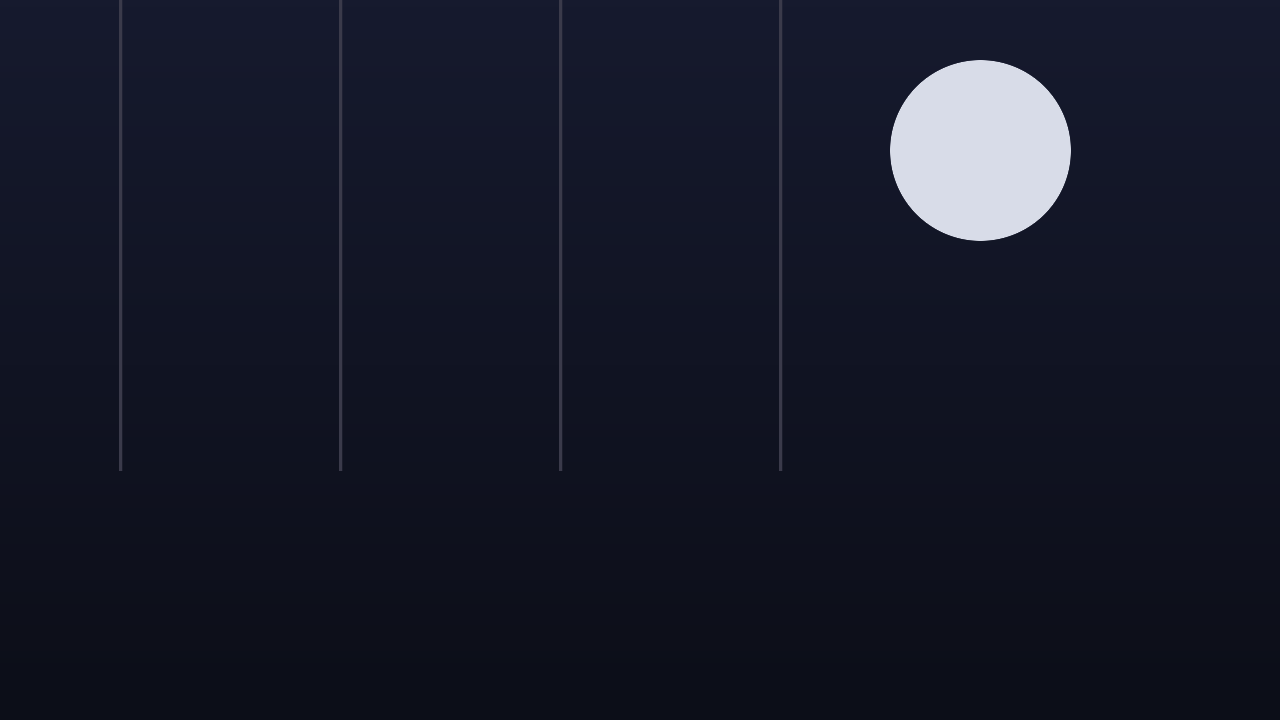
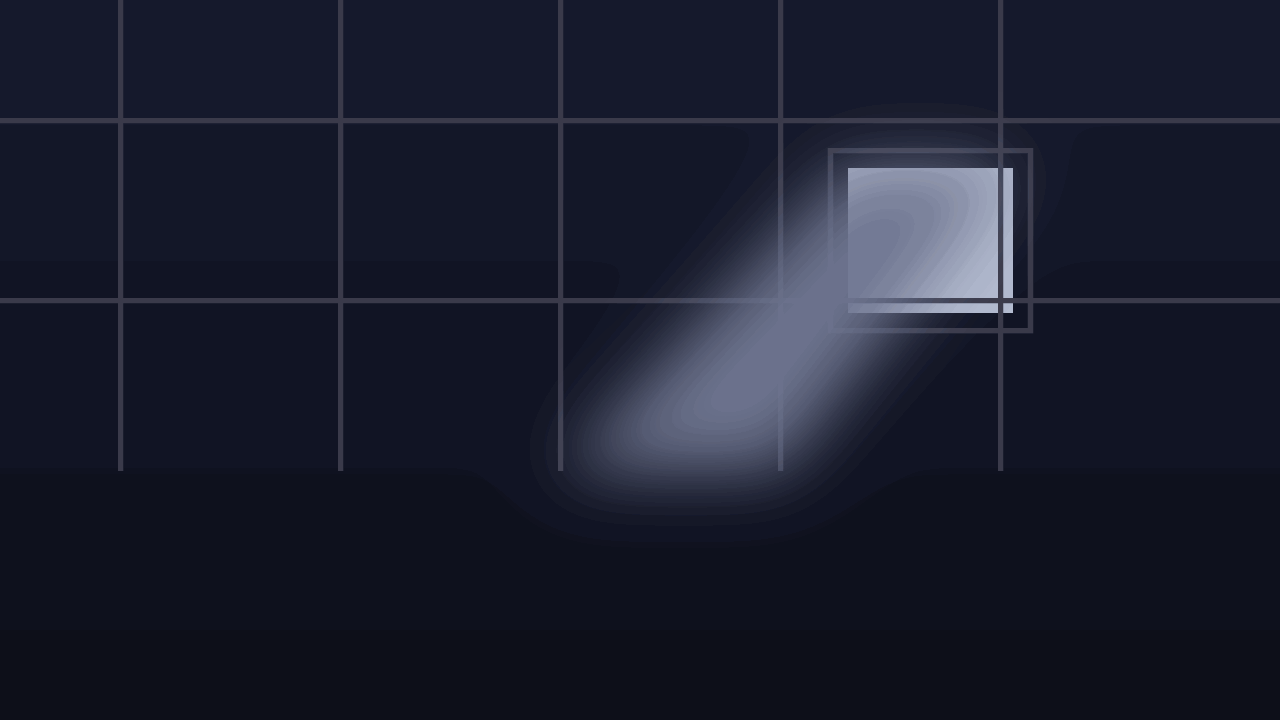
assets(corinna): cell_night 加强光——把"光的来源"画出来
作者指出"cell_night 不应该给我换成加光版的吗"。对的——
原来那版只是**换了冷色 + 挂了个圆**，月亮在墙上但没有光进来，
夜里和白天除了色调没有区别。

改了三版才成立，过程里踩的坑值得记：

1. **只有月亮（原版）**：月亮"挂在墙上"，没有光。
   剧本里写着「月光正安静地待在铁栏内」——**没有东西可指**。

2. **月亮 + 光斑**：光斑打在月亮上（月亮自己发光还被光穿过，读起来怪），
   而且月亮圆心 1120、半径 60，**被画面右边裁掉了**。

3. **窗户 + 光（定稿）**：窗框用**线**画（它是结构），
   窗内亮色用**填充**（它是主体），光从窗里射到地面。
   **关键是把光的来源画出来**——只有光斑读者不知道光从哪来。

顺带一个取舍，写进 art-direction 了：
原来满屏竖线读起来像"你我之间隔着铁栏"（更压抑）；
加了窗户之后铁栏变成"窗户上有栏杆"（更写实）。
两种都对，情绪不同，**这是构图选择不是技术问题**。

文件反而更小了：27,310 B → 16,899 B（PNG8 的效果）。

docs/art-direction.md 同步更新：
- "光等于意义"那一节加了 `cell_night` 的实例和三版对比
- 新增一条规矩：**做光的时候先决定"光从哪来"，再画光**
- 「一张图只讲一件事」表里 `cell_night` 的支点从"月亮"改成"窗户 + 那道月光"

验证：corinna / phone --check 通过，art-direction 围栏配对（8 个）。

Changed region(s): [[0.0, 0.0611, 1.0, 0.7028]]

diff --git a/docs/art-direction.md b/docs/art-direction.md
@@ -50,10 +50,30 @@
 **规矩：**
 
 - **光只用在剧本里提到过的东西上。** 现在只有两个：教堂的太阳
-  （民众说「雨就是她让上帝降下的」）、牢房夜的月亮。
+  （民众说「雨就是她让上帝降下的」）、牢房夜的月光
+  （`@say "月光正安静地待在铁栏内"`）。
 - **宁弱勿强。** 光一强，它就不再是"照进来的光"，而变成"一块白色的东西"——
   **结构被压过去，画面就没有"里面"和"外面"了。**
 - 想加光的时候先问：**这道光在剧本里对应什么？** 说不上来就别加。
+
+### 实例：`cell_night` 的这一道光
+
+这一张改了三版才成立，过程值得记下来：
+
+| 版本 | 问题 |
+|---|---|
+| 只有月亮（没有光） | 月亮"挂在墙上"，**没有光进来**——夜里和白天只是换了颜色 |
+| 月亮 + 光 | **光斑打在月亮上**（月亮自己发光还要被光穿过，读起来怪）；月亮还被画面右边裁掉 |
+| **窗户 + 光（定稿）** | 窗是**结构**（用线画框），窗内的亮色是**主体**，光从窗里射到地面 |
+
+**关键决定：把那道光的来源画出来。** 只有光斑、没有光源，
+读者不知道光从哪来；画出窗户之后，**"月光从窗户进来"一眼就成立**。
+
+**做光的时候先决定"光从哪来"，再画光。**
+
+**一个取舍要知道**：原来满屏的竖线读起来像"你我之间隔着铁栏"（更压抑），
+加了窗户之后铁栏变成"窗户上有栏杆"（更写实）。
+两种都对，但情绪不同——**这是构图选择，不是技术问题。**
 
 ## 四、调色板（从现有背景里量出来的，别另起一套）
 
@@ -106,7 +126,7 @@
 |---|---|
 | `cathedral` | 太阳（从教堂背后升起） |
 | `cell` | 铁栏 |
-| `cell_night` | 月亮 |
+| `cell_night` | 窗户 + 那道月光 |
 | `court` | 长凳 |
 | `court_outside` | 一排人群剪影 |
 | `street` | 两侧建筑 + 路面透视 |
